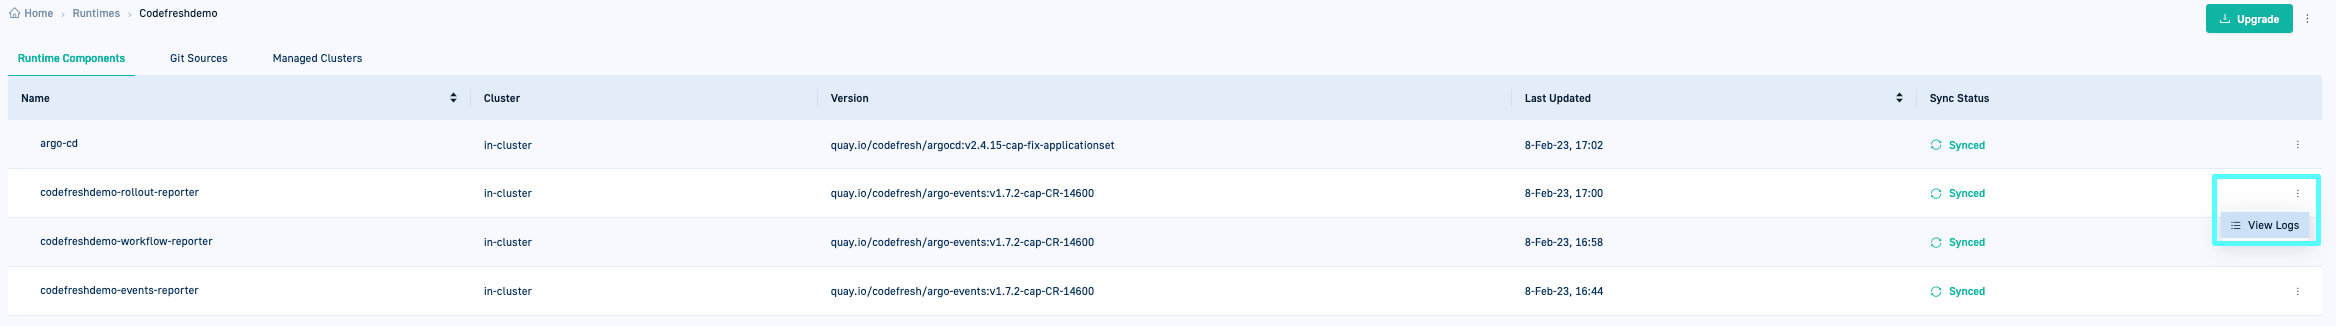
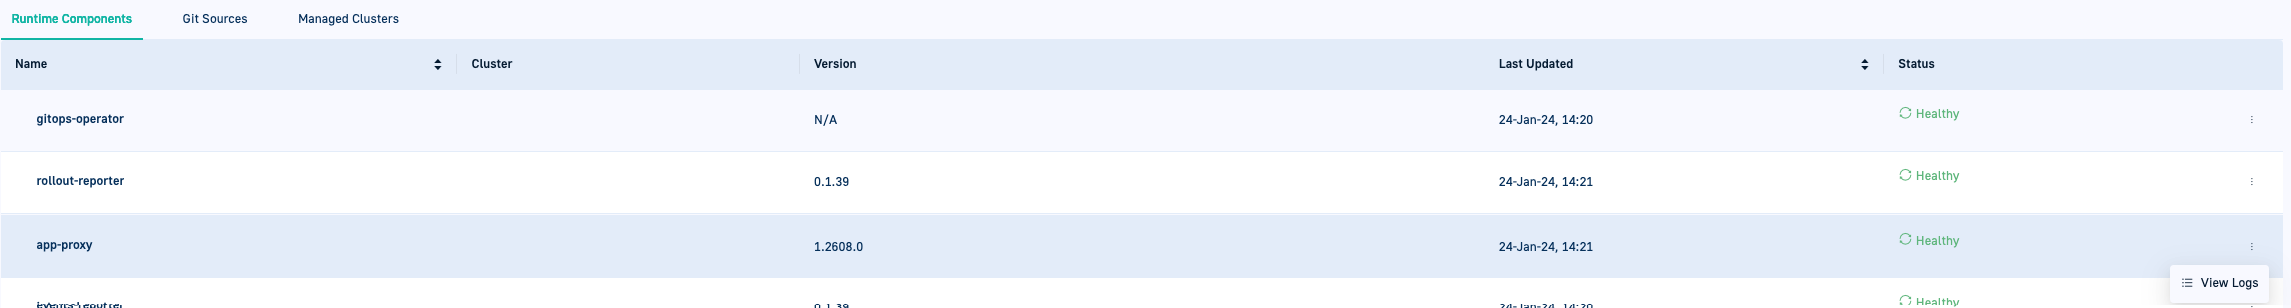
Restore component log download
Restored documentation of component log download

diff --git a/_docs/installation/gitops/monitor-manage-runtimes.md b/_docs/installation/gitops/monitor-manage-runtimes.md
@@ -536,81 +536,31 @@ Uninstalling a GitOps Runtime permanently removes:
 
 
 
-## (Helm GitOps) Download logs for GitOps Runtimes
-
-Download the logs for a completed GitOps Runtime installation.<br>
-The Runtime log is downloaded as a `.tar.gz` file, which contains the individual log files for each runtime component.
-
-1. In the Codefresh UI, on the toolbar, click the **Settings** icon, expand Runtimes in the sidebar, and select [**GitOps Runtimes**](https://g.codefresh.io/2.0/account-settings/runtimes){:target="\_blank"}.
-1. If needed, switch to **List View**, and then select the runtime for which to download logs.
-1. From the context menu, select **Download All Logs**.
-  The log file is downloaded to the Downloads folder or the folder designated for downloads, with the filename, `<runtime-name>.tar.gz`. For example, `codefreshv2-production2.tar.gz`.
-
-  {% include
-	image.html
-	lightbox="true"
-	file="/images/runtime/helm-download-all-logs.png"
-	url="/images/runtime/helm-download-all-logs.png"
-	alt="Download all logs for installed GitOps Runtime"
-	caption="Download all logs for installed GitOps Runtime"
-    max-width="60%"
-%}
-
-<!--- 
-## (Legacy CLI Hybrid GitOps) View/download logs for GitOps Runtimes
-Logs are available for completed Runtimes, both for the runtime and for individual runtime components. Download log files for offline viewing and analysis, or view online logs for a Runtime component, and download if needed for offline analysis. Online logs support free-text search, search-result navigation, and line-wrap for enhanced readability.
+## (Helm GitOps) View/download logs for GitOps Runtimes
+Logs are available for installed GitOps Runtimes, both for the Runtime and for individual Runtime components. Download log files for offline viewing and analysis, or view online logs for a Runtime component and download if needed for offline analysis. Online logs support free-text search, search-result navigation, and line-wrap for enhanced readability.
 
 Log files include events from the date of the application launch, with the newest events listed first.
 
 
 
 ### Download logs for GitOps Runtimes
-Download the log file for a Runtime. The Runtime log is downloaded as a `.tar.gz` file, which contains the individual log files for each runtime component.
+Download the log file for a GitOps Runtime. The Runtime log is downloaded as a `.tar.gz` file, which contains the individual log files for each runtime component.
 
-1. In the Codefresh UI, on the toolbar, click the **Settings** icon, expand Runtimes in the sidebar, and select [**GitOps Runtimes**](https://g.codefresh.io/2.0/account-settings/runtimes){:target="\_blank"}.
+1. In the Codefresh UI, on the toolbar, click the **Settings** icon.
+1. From Runtimes in the sidebar, select [**GitOps Runtimes**](https://g.codefresh.io/2.0/account-settings/runtimes){:target="\_blank"}.
 1. If needed, switch to **List View**, and then select the runtime for which to download logs.
 1. From the context menu, select **Download All Logs**.
   The log file is downloaded to the Downloads folder or the folder designated for downloads, with the filename, `<runtime-name>.tar.gz`. For example, `codefreshv2-production2.tar.gz`.
 
-
-  {% include
-	image.html
-	lightbox="true"
-	file="/images/runtime/runtime-logs-download-all.png"
-	url="/images/runtime/runtime-logs-download-all.png"
-	alt="Download logs for selected runtime"
-	caption="Download logs for selected runtime"
-    max-width="40%"
-%}
-
-
-{:start="4"}
-1. To view the log files of the individual components, unzip the file.
-  Here is an example of the folder with the individual logs.
-
-  {% include
-	image.html
-	lightbox="true"
-	file="/images/runtime/runtime-logs-folder-view.png"
-	url="/images/runtime/runtime-logs-folder-view.png"
-	alt="Individual log files in folder"
-	caption="Individual log files in folder"
-    max-width="50%"
-%}
-
-{:start="5"}
-1. Open a log file with the text editor of your choice.
-
-
-
 ### View/download logs for Runtime components
 View online logs for any Runtime component, and if needed, download the log file for offline viewing and analysis.
 
-Online logs show up to 1000 of the most recent events (lines), updated in real time. Downloaded logs include all the events, from the application launch to the date and time of download.
+Online logs show up to 1000 of the most recent events (lines), updated in real time. Downloaded logs include all the events, from the date and time of application launch to the date and time of download.
 
-1. In the Codefresh UI, on the toolbar, click the **Settings** icon, expand Runtimes in the sidebar, and select [**GitOps Runtimes**](https://g.codefresh.io/2.0/account-settings/runtimes){:target="\_blank"}.
+1. In the Codefresh UI, on the toolbar, click the **Settings** icon.
+1. From Runtimes in the sidebar, select [**GitOps Runtimes**](https://g.codefresh.io/2.0/account-settings/runtimes){:target="\_blank"}.
 1. If needed, switch to **List View**, and then select the Runtime.
-1. Select the Runtime component and then select **View Logs**.
+1. In the Runtime Components tab, from the context menu of the required component, select **View Logs**.
 
   {% include
 	image.html
@@ -625,7 +575,7 @@ Online logs show up to 1000 of the most recent events (lines), updated in real t
 
 {:start="4"}
 1. Do the following:
-  * Search by free-text for any string, and click the next and previous buttons to navigate between the search results.
+  * To search for any string, type the free-text to search for, and click the next and previous buttons to navigate between the search results.
   * To switch on line-wrap for readability, click **Wrap**.
 
   {% include
@@ -643,7 +593,6 @@ Online logs show up to 1000 of the most recent events (lines), updated in real t
   The file is downloaded as `<component-name>.log`.
 
 
--->
 
 
 ## (Legacy CLI Hybrid GitOps) Restoring provisioned GitOps Runtimes
